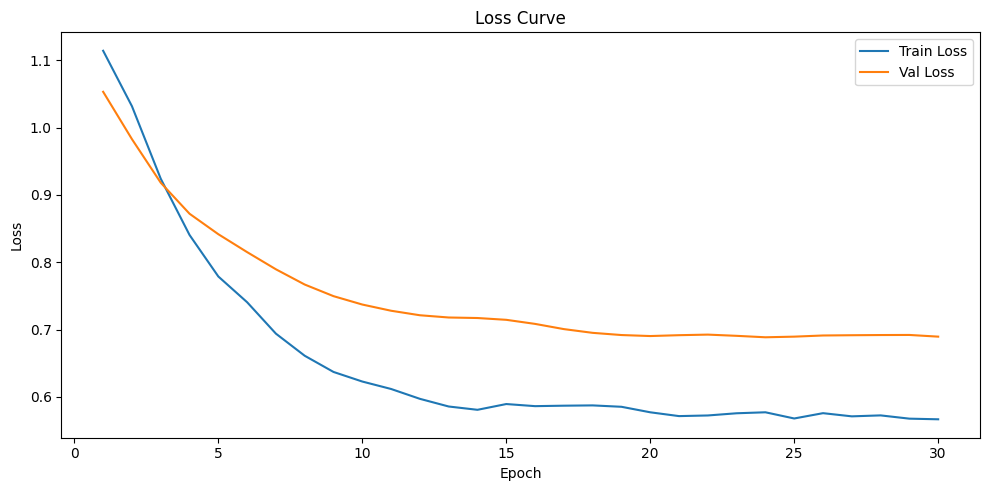
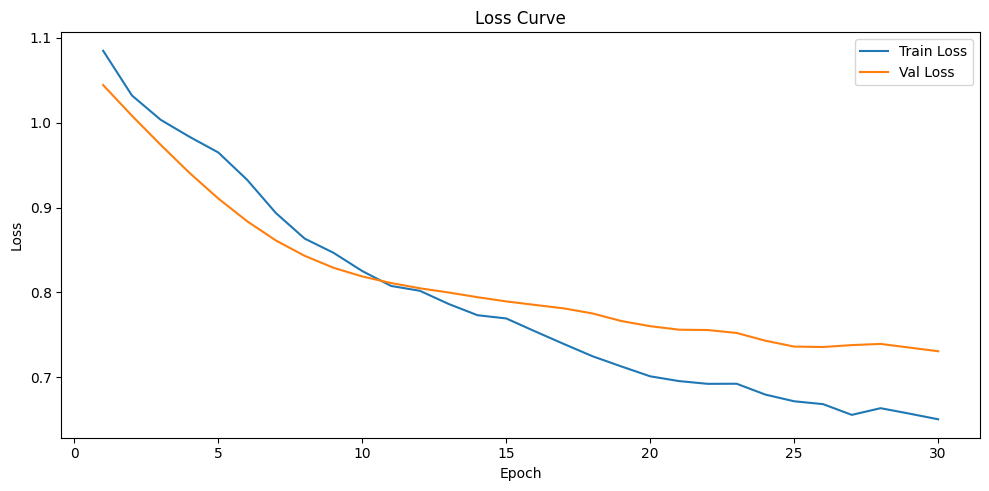
improve models

diff --git a/main.py b/main.py
@@ -189,7 +189,7 @@ def main():
     hidden_dim = 100
     num_epochs = 30
     lr = 0.01
-    weight_decay = 0.0001
+    weight_decay = 0.001
     label_smoothing = 0.1
     results = []
 
